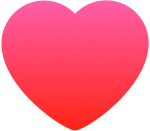
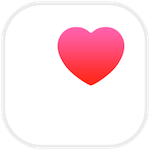
MOBILE-189, MOBILE-190, MOBILE-191, MOBILE-192
MOBILE-189: Update heart icon in first time tool tips to use the Apple Health Icon
- Update the assets for this icon
- Update the tooltip layout

MOBILE-190: Initial Manual Health Sync screen - Update Copy
- Remove the bulleted explanation of authorizing health and replace with new copy and link (using react-native-hyperlink)

MOBILE-191: Manual/Initial Sync Progress screens - Update Copy
- Simple copy update using shorter/simpler text indicating to stay on screen, else sync will pause

MOBILE-192: Apple Health Authorization - Update Copy
- Simple usage string change in Info.plist

diff --git a/src/screens/HealthSyncScreen.js b/src/screens/HealthSyncScreen.js
@@ -11,6 +11,7 @@ import {
   View,
 } from "react-native";
 import { ThemeProvider } from "glamorous-native";
+import Hyperlink from "react-native-hyperlink";
 
 import PrimaryTheme from "../themes/PrimaryTheme";
 import { TPNativeHealth } from "../models/TPNativeHealth";
@@ -19,6 +20,8 @@ import Button from "../components/Button";
 import Colors from "../constants/Colors";
 
 const ACTIVITY_INDICATOR_VIEW_HEIGHT = 62;
+const INSTRUCTIONS_LINK =
+  "https://support.tidepool.org/hc/en-us/articles/360034537092-Verify-Tidepool-Mobile-Apple-Health-Permissions";
 
 const styles = StyleSheet.create({
   headerRight: {
@@ -44,7 +47,7 @@ const styles = StyleSheet.create({
   },
   introManualSyncSecondaryText: {
     paddingTop: 20,
-    paddingBottom: 40,
+    paddingBottom: 20,
     alignSelf: "center",
     textAlign: "center",
     ...PrimaryTheme.healthSyncTextSecondary,
@@ -62,6 +65,7 @@ const styles = StyleSheet.create({
   syncProgressExplanation: {
     width: 300,
     alignSelf: "center",
+    textAlign: "center",
     paddingBottom: 20,
     ...PrimaryTheme.healthSyncTextSecondary,
   },
@@ -162,23 +166,6 @@ class HealthSyncScreen extends PureComponent {
     });
   };
 
-  static renderBulletedTextView(text) {
-    return (
-      <View style={{ flexDirection: "row" }}>
-        <Text style={PrimaryTheme.healthSyncTextSecondary}>{"\u2022"}</Text>
-        <Text
-          style={{
-            ...PrimaryTheme.healthSyncTextSecondary,
-            flex: 1,
-            paddingLeft: 5,
-          }}
-        >
-          {text}
-        </Text>
-      </View>
-    );
-  }
-
   renderSyncProgressBarOrSpinner() {
     const {
       health: {
@@ -250,7 +237,11 @@ class HealthSyncScreen extends PureComponent {
     let line2Text = "";
     if (isInterfaceOn) {
       const useDaysProgress = false;
-      if (isOffline || isUploadingHistorical || turnOffHistoricalUploaderReason) {
+      if (
+        isOffline ||
+        isUploadingHistorical ||
+        turnOffHistoricalUploaderReason
+      ) {
         if (isOffline && !isHistoricalUploadPending) {
           line1Text = "Upload paused while offline.";
         }
@@ -260,7 +251,11 @@ class HealthSyncScreen extends PureComponent {
             progressText = `Day ${historicalUploadCurrentDay.toLocaleString()} of ${historicalTotalDaysCount.toLocaleString()}`;
           }
         } else if (historicalUploadTotalSamples > 0) {
-          progressText = `Uploaded ${new Intl.NumberFormat(undefined, { style: 'percent'}).format(historicalUploadTotalSamples / historicalTotalSamplesCount)}`;
+          progressText = `Uploaded ${new Intl.NumberFormat(undefined, {
+            style: "percent",
+          }).format(
+            historicalUploadTotalSamples / historicalTotalSamplesCount
+          )}`;
         }
         if (progressText) {
           if (line1Text) {
@@ -282,12 +277,12 @@ class HealthSyncScreen extends PureComponent {
           ) {
             line1Text = "No data available to upload.";
           } else if (line1Text) {
-              line2Text = turnOffHistoricalUploaderError;
-            } else {
-              line1Text = turnOffHistoricalUploaderError;
-            }
+            line2Text = turnOffHistoricalUploaderError;
+          } else {
+            line1Text = turnOffHistoricalUploaderError;
           }
         }
+      }
     } else {
       line1Text = interfaceTurnedOffError;
     }
@@ -328,7 +323,7 @@ class HealthSyncScreen extends PureComponent {
 
     let primaryText = "";
     let syncProgressExplanation =
-      "Please stay on this screen and keep your phone unlocked while we sync.";
+      "Stay on this screen during sync or sync will be paused.";
     let buttonTitle = "Continue";
 
     if (isTurningInterfaceOn || isHistoricalUploadPending) {
@@ -410,15 +405,23 @@ class HealthSyncScreen extends PureComponent {
             We suggest using a manual sync if you are having trouble seeing your
             diabetes data in Tidepool Mobile or on the web.
           </Text>
-          <Text style={PrimaryTheme.healthSyncTextSecondary}>
-            Before syncing:
-          </Text>
-          {HealthSyncScreen.renderBulletedTextView("Open the Health app")}
-          {HealthSyncScreen.renderBulletedTextView("Tap the Sources tab")}
-          {HealthSyncScreen.renderBulletedTextView("Tap Tidepool")}
-          {HealthSyncScreen.renderBulletedTextView(
-            "Turn on any switches you want to sync with Tidepool (blood glucose, nutrition, insulin, etc)"
-          )}
+          <Hyperlink
+            linkDefault
+            linkStyle={PrimaryTheme.hyperlink}
+            linkText={(url) => (url === INSTRUCTIONS_LINK ? "here" : url)}
+          >
+            <Text>
+              <Text style={styles.introManualSyncSecondaryText}>
+                Be sure you have authorized Tidepool to read your data from
+                Apple Health. You can find more detailed instructions
+              </Text>
+              <Text> </Text>
+              <Text style={styles.introManualSyncSecondaryText}>
+                {INSTRUCTIONS_LINK}
+              </Text>
+              <Text>.</Text>
+            </Text>
+          </Hyperlink>
         </View>
         <View>
           <Button

diff --git a/src/components/Tooltips/ConnectHealthTooltipContent.js b/src/components/Tooltips/ConnectHealthTooltipContent.js
@@ -11,8 +11,9 @@ class ConnectHealthTooltipContent extends PureComponent {
       <glamorous.View padding={4} flexDirection="row">
         <glamorous.Image
           source={require("../../../assets/images/first-time-health-icon.png")}
-          width={25}
-          height={22}
+          marginTop={-3}
+          width={50}
+          height={50}
           alignSelf="center"
         />
         <glamorous.Text

diff --git a/src/themes/PrimaryTheme.js b/src/themes/PrimaryTheme.js
@@ -208,6 +208,9 @@ const PrimaryTheme = {
     color: Colors.white,
     ...FontStyles.mediumSmallSemiboldFont,
   },
+  hyperlink: {
+    color: Colors.brightBlue,
+  },
 };
 
 export default PrimaryTheme;
